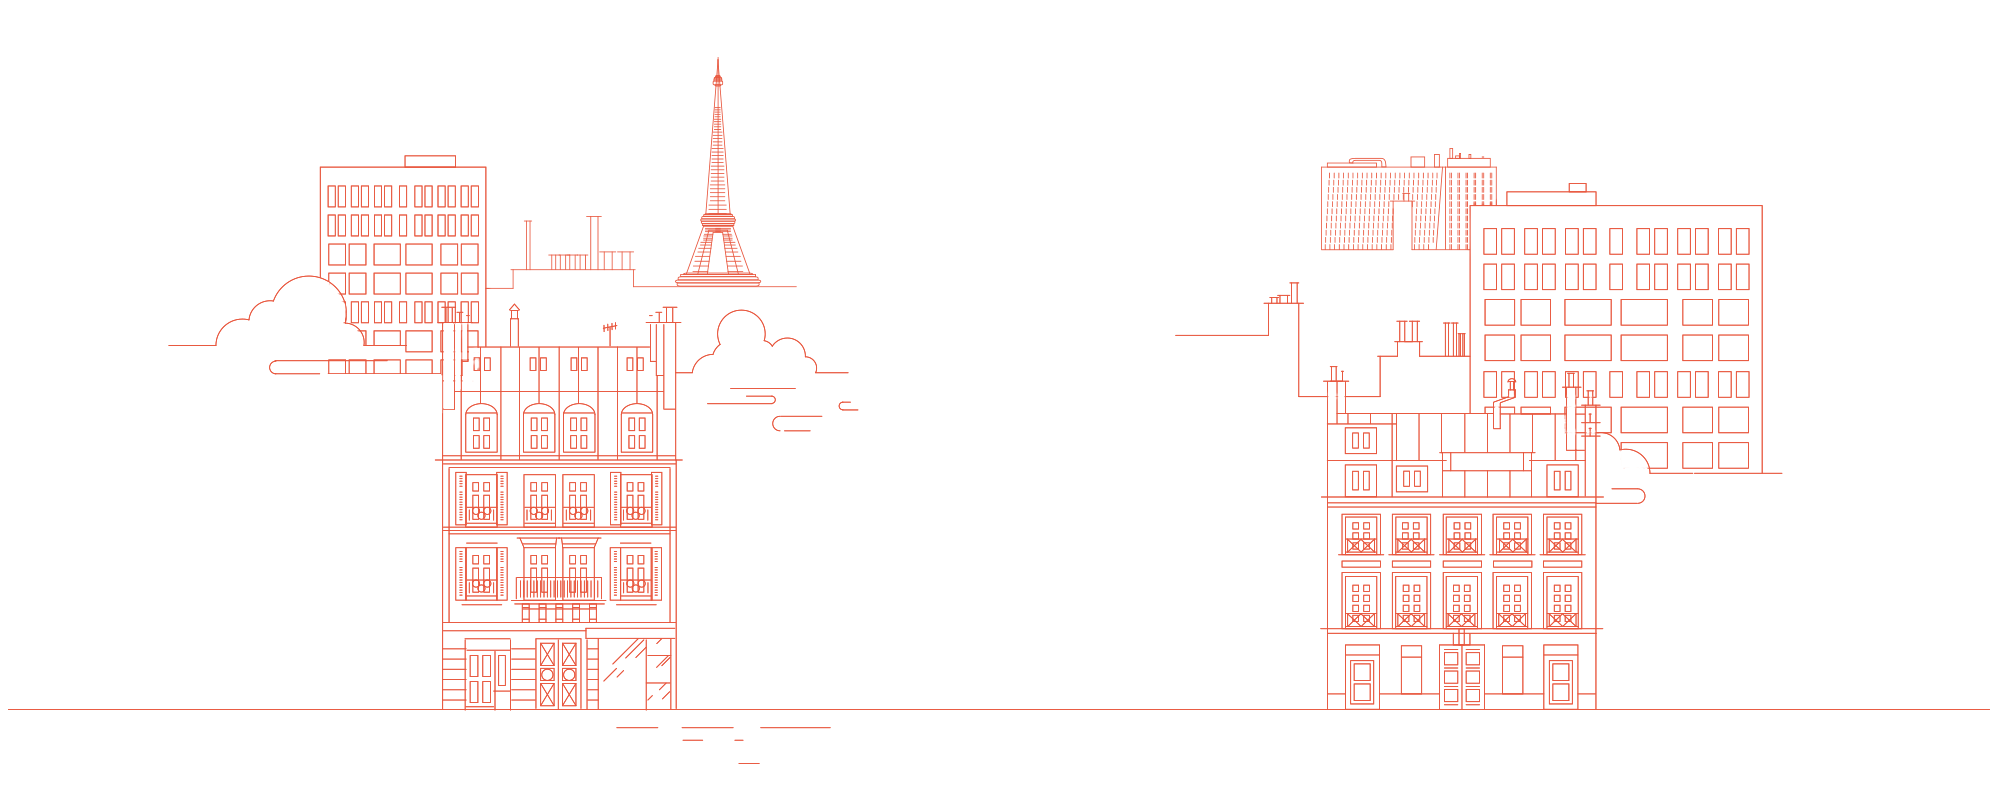
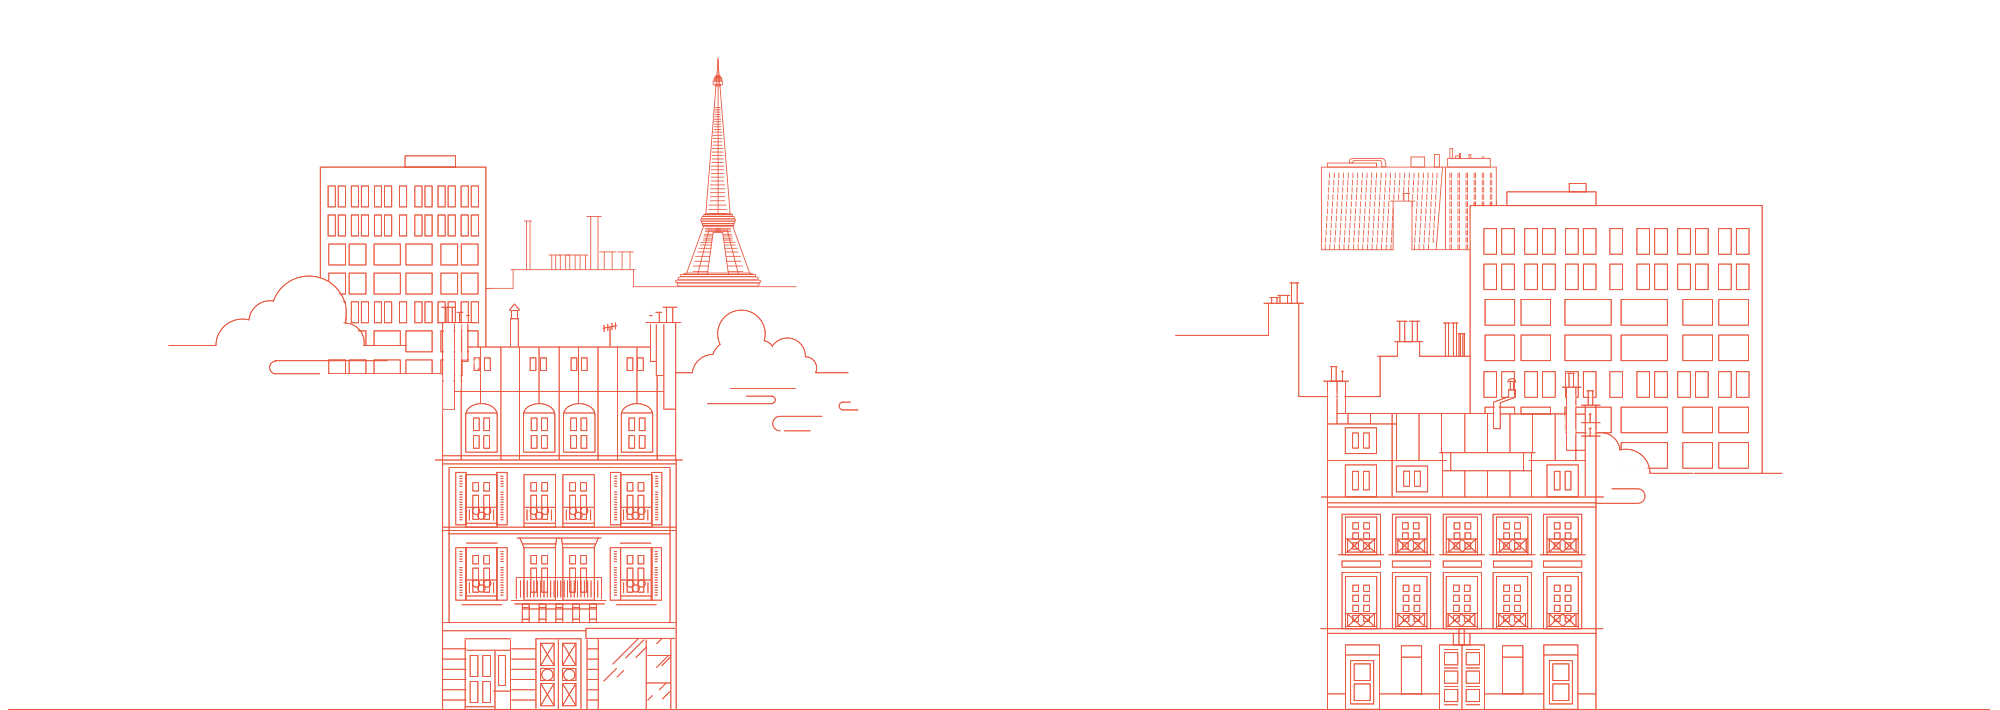
Added bottom panorama

Changed region(s): [[0.0, 0.093, 0.992, 1.0], [0.62, 0.3718, 0.651, 0.4338]]

diff --git a/style.css b/style.css
@@ -103,7 +103,12 @@ h1 {
     padding-top: 50px;
 }
 .orange {
-    background-color: #E8563D;
+    background-color: #E8563D !important;
+    background: url('images/panorama_bottom.png') no-repeat top center;
+    -webkit-background-size: cover;
+    -moz-background-size: cover;
+    -o-background-size: cover;
+    background-size: cover;
 }
 .grey {
     background-color: #A6A6A6;

diff --git a/index.php b/index.php
@@ -87,9 +87,11 @@ mysqli_close($conn);
 
 <div class="scroll-section orange">
     <div class="content no-padding">
-        <a href='#tagline-section'>
-            <img class="center" src="./images/arrow_white.png" alt="down arrow sign">
-        </a>
+<!--        <div id="panorama_bottom">-->
+            <a href='#tagline-section'>
+                <img class="center" src="./images/arrow_white.png" alt="down arrow sign">
+            </a>
+<!--        </div>-->
     </div>
 </div>
 
